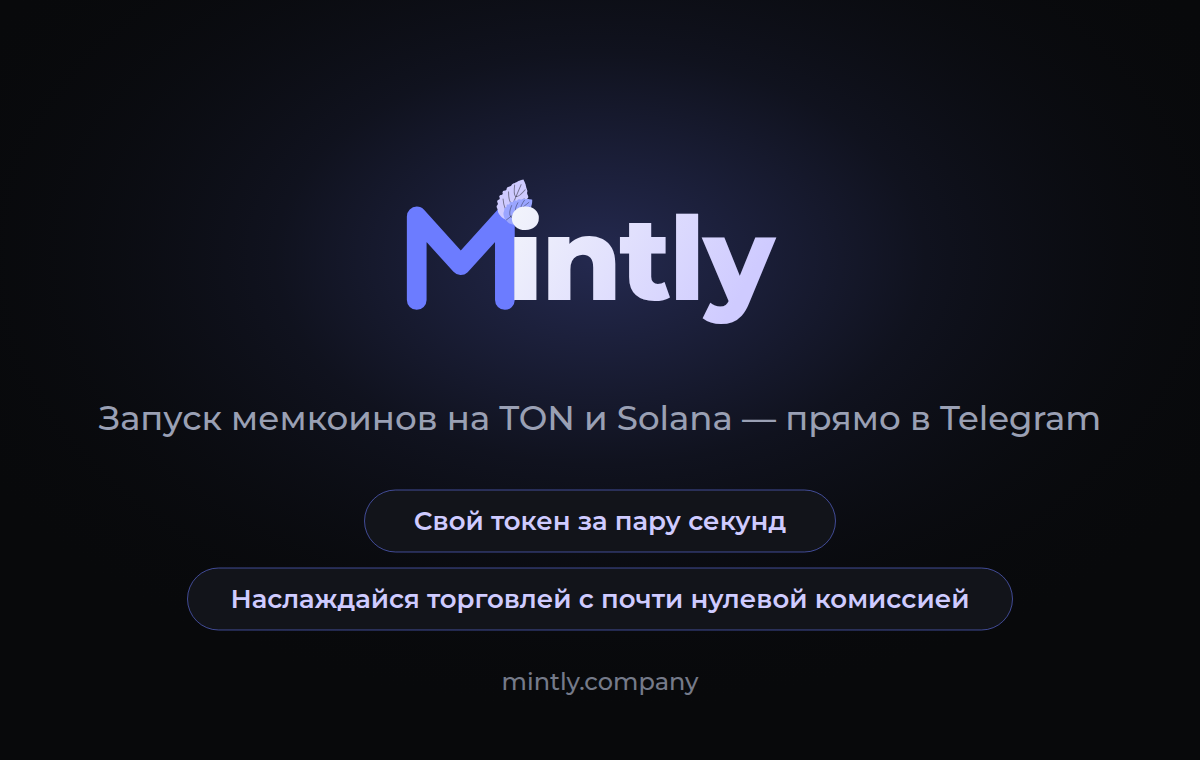
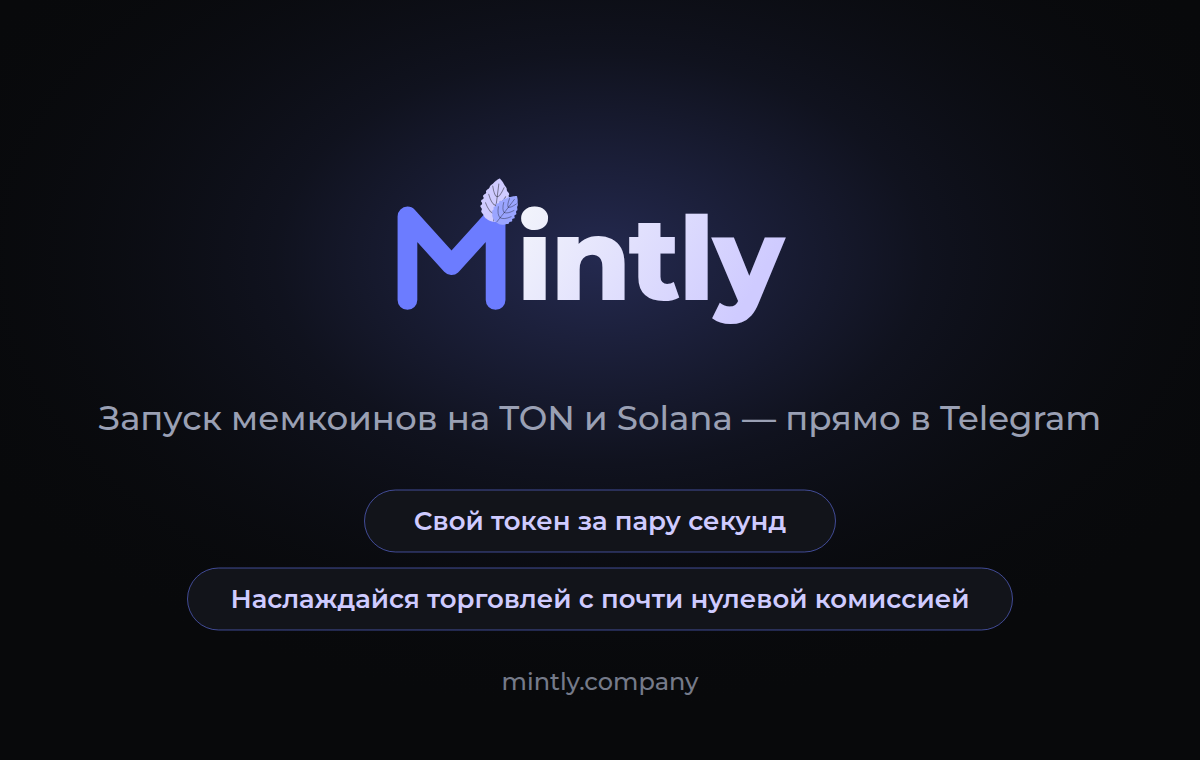
Знак и хвост слова разведены
Правая ножка знака налезала на «i». Отступ увеличен, листья повёрнуты
вверх — теперь они стоят над «i» акцентом, а не поперёк соседней буквы.

Claude-Session: https://claude.ai/code/session_012dgtbmCBimMGEXv6Efga8R

Changed region(s): [[0.3083, 0.2421, 0.6783, 0.4237]]

diff --git a/api/telegram-bot.js b/api/telegram-bot.js
@@ -1472,7 +1472,7 @@ async function handleWalletSet(message, аргумент) {
 /* Telegram запоминает загруженное фото по ссылке и на ту же ссылку
    отдаёт старую картинку, сколько её ни перерисовывай. Поэтому в адресе
    стоит номер: перерисовал баннер — подними его на единицу. */
-const БАННЕР_ВЕРСИЯ = 13;
+const БАННЕР_ВЕРСИЯ = 14;
 
 const ПРИВЕТСТВИЕ =
   "Mintly — запуск токенов в Telegram.\n\nЗдесь можно смотреть цены, покупать и продавать, не выходя из переписки: /menu\n\nВопрос или поломка — «Профиль» → «Поддержка» в приложении.";
